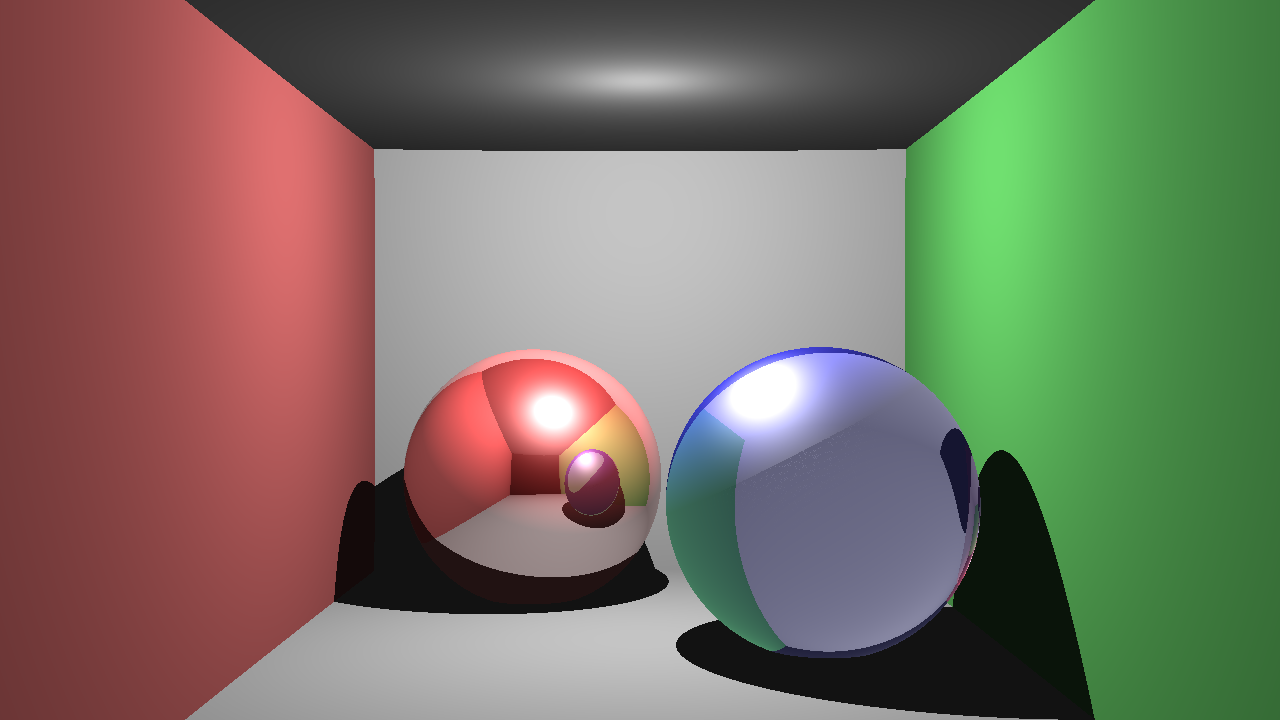
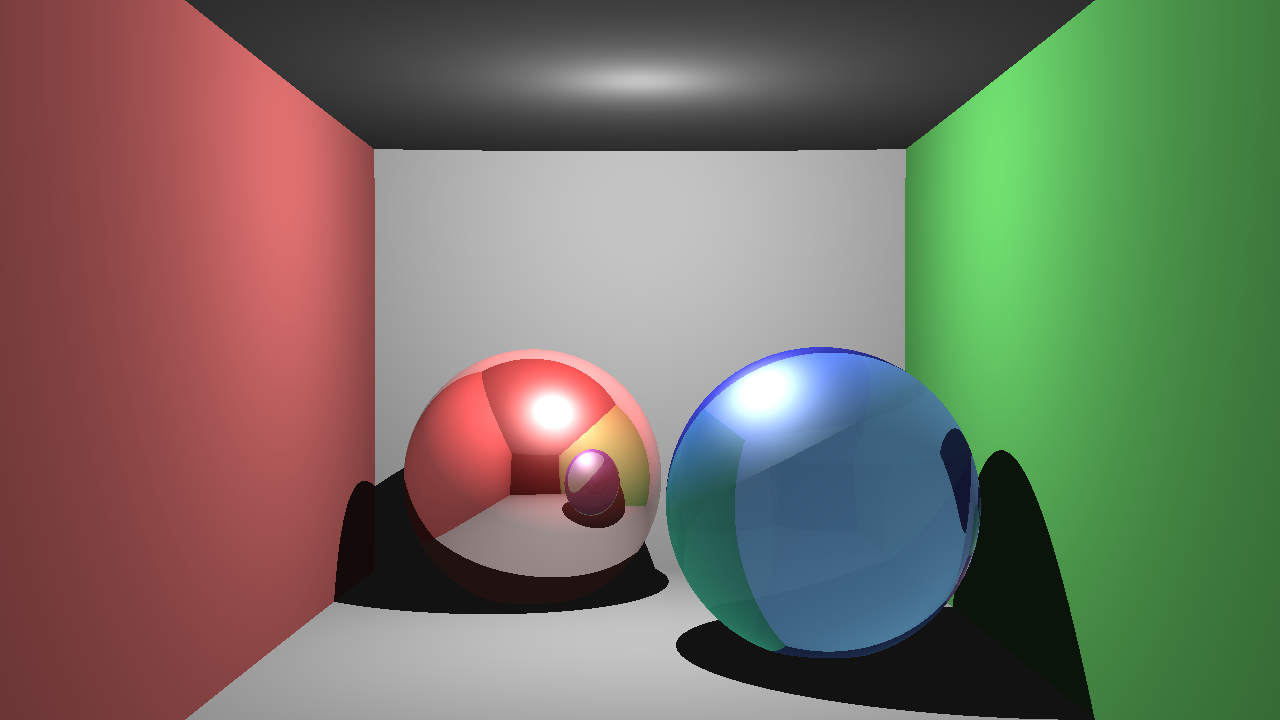
Fresnel and Shadow Fixes

Changed region(s): [[0.5312, 0.4889, 0.7812, 0.9167]]

diff --git a/RayTracer/materials.cpp b/RayTracer/materials.cpp
@@ -22,10 +22,9 @@ float GenLight::Shadow(Ray const& ray, float t_max)
 {
 	HitInfo h;
 	h.Init();
-	double bias = 0;
-	if (TraverseTree(ray, treeRoot, h, HIT_FRONT))
+	if (TraverseTree(ray, treeRoot, h, HIT_FRONT_AND_BACK))
 	{
-		if (h.z <= t_max && h.z > bias)
+		if (h.z <= t_max)
 			return 0.0;
 	}
 
@@ -89,35 +88,37 @@ Color RefractRay(float ior, const Ray& ray, const HitInfo& hInfo, const LightLis
 	float eta;
 	float cosThetaT;
 	cyVec3f refractDir;
+	Ray refract;
+	float eps = 1e-4f;
 
 	if (hInfo.front)
 	{
 		eta = 1 / ior;
 		cosThetaT = sqrt(1 - pow(eta, 2) * (1 - pow(refractView.Dot(hInfo.N), 2)));
 		refractDir = -eta * refractView - (cosThetaT - eta * (refractView.Dot(hInfo.N))) * hInfo.N;
+		refract = Ray(hInfo.p, refractDir.GetNormalized());
+		float sign = refract.dir.Dot(hInfo.N) > 0.0f ? 1.0f : -1.0f;
+		refract.p += hInfo.N * (eps * sign);
 	}
 	else
 	{
 		eta = ior / 1;
 		float cosThetaSquared = (1 - pow(eta, 2) * (1 - pow(refractView.Dot(-hInfo.N), 2)));
-		if (cosThetaSquared < 0.0)
+		if (cosThetaSquared < 0.0f)
 		{
 			return ReflectRay(ray, hInfo, lights, bounceCount - 1, HIT_FRONT_AND_BACK);
 		}
 		cosThetaT = sqrt(cosThetaSquared);
 		refractDir = -eta * refractView - (cosThetaT - eta * (refractView.Dot(-hInfo.N))) * -hInfo.N;
+		refract = Ray(hInfo.p, refractDir.GetNormalized());
+		float sign = refract.dir.Dot(-hInfo.N) > 0.0f ? 1.0f : -1.0f;
+		refract.p += -hInfo.N * (eps * sign);
 	}
 
-	//Refracted ray calculation with bias
-	Ray refract = Ray(hInfo.p, refractDir.GetNormalized());
-	float eps = 1e-4f;
-	float sign = refract.dir.Dot(hInfo.N) > 0.0f ? 1.0f : -1.0f;
-	refract.p += hInfo.N * (eps * sign);
 	if (TraverseTree(refract, treeRoot, refractHit, HIT_FRONT_AND_BACK) && (refractHit.node->GetMaterial()))
 	{
 		refractCol = refractHit.node->GetMaterial()->Shade(refract, refractHit, lights, bounceCount - 1);
 	}
-
 	return refractCol;
 }
 
@@ -138,18 +139,28 @@ Color MtlBlinn::Shade(Ray const& ray, HitInfo const& hInfo, LightList const& lig
 	Color ambientLight(0, 0, 0);
 	Color reflectCol(0, 0, 0);
 	Color refractCol(0, 0, 0);
+	Color fresnel(0, 0, 0);
+	Color fullReflection = this->Reflection();
 
 
-	HitInfo reflectHit;
-	reflectHit.Init();
-	if (this->Reflection() != Color(0, 0, 0) && bounceCount > 0)
-	{
-		reflectCol = this->reflection * ReflectRay(ray, hInfo, lights, bounceCount, HIT_FRONT);
-	}
 
 	if (this->ior > 0.0f && bounceCount > 0)
 	{
 		refractCol = this->refraction * RefractRay(this->ior, ray, hInfo, lights, bounceCount);
+
+		refractCol.r *= exp(-this->absorption.r * hInfo.z);
+		refractCol.g *= exp(-this->absorption.g * hInfo.z);
+		refractCol.b *= exp(-this->absorption.b * hInfo.z);
+
+		//Fresnel Effect
+		fresnel = this->refraction * pow((1 - this->ior) / (1 + this->ior), 2);
+		fullReflection = fullReflection + fresnel;
+		refractCol = refractCol * (Color(1, 1, 1) - fullReflection);
+	}
+
+	if (fullReflection != Color(0, 0, 0) && bounceCount > 0)
+	{
+		reflectCol = fullReflection * ReflectRay(ray, hInfo, lights, bounceCount, HIT_FRONT);
 	}
 
 	float alpha = this->Glossiness();

diff --git a/RayTracer/objects.cpp b/RayTracer/objects.cpp
@@ -24,7 +24,7 @@ bool Sphere::IntersectRay(Ray const& ray, HitInfo& hInfo, int hitSide) const
     double t1 = (-b - sqrt(discriminant)) / (2 * a);
     double t2 = (-b + sqrt(discriminant)) / (2 * a);
 
-    if(t1 > 0 && hitSide & HIT_FRONT)
+    if(t1 > 0.0002 && hitSide & HIT_FRONT)
     {
         if(hInfo.z > t1)
         {
@@ -35,7 +35,7 @@ bool Sphere::IntersectRay(Ray const& ray, HitInfo& hInfo, int hitSide) const
             return true;
         }
     }
-    else if(t2 > 0 && hitSide & HIT_BACK)
+    else if(t2 > 0.0002 && hitSide & HIT_BACK)
     {
         if (hInfo.z > t2)
         {
